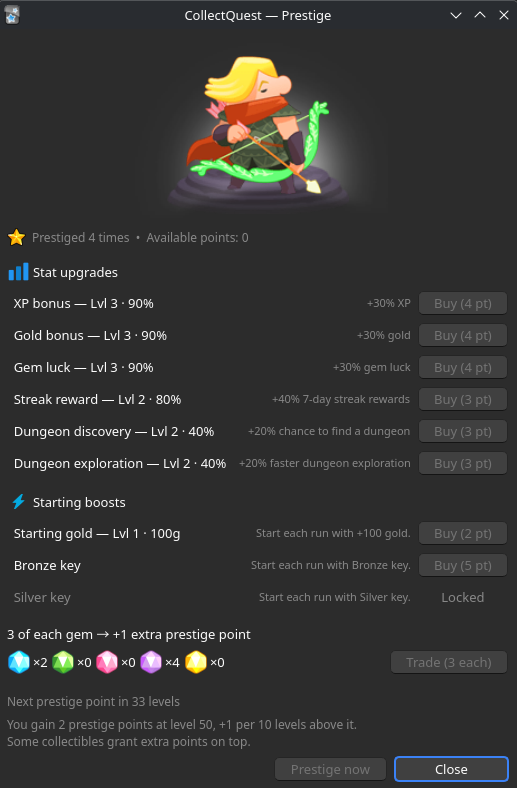
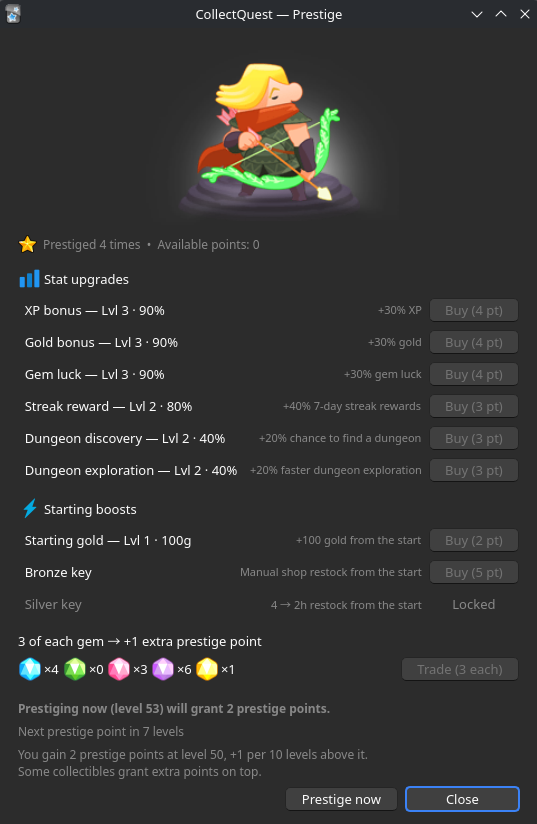
Outer padding consistent across windows, rewording in wiki

diff --git a/src/ui/milestones.py b/src/ui/milestones.py
@@ -5,6 +5,7 @@ from aqt.qt import (
     QDialog,
     QGridLayout,
     QLabel,
+    QRect,
     QScrollArea,
     QVBoxLayout,
     QWidget,
@@ -12,7 +13,13 @@ from aqt.qt import (
 )
 
 from .. import milestones as milestones_mod, storage, xp
-from .assets import _ink_pixmap, add_detail_window_close_row, add_detail_window_header, exec_dialog
+from .assets import (
+    _ink_pixmap,
+    add_detail_window_close_row,
+    add_detail_window_header,
+    exec_dialog,
+    pad_detail_window,
+)
 from .constants import _DETAIL_MUTED
 
 # Markers for the three states an entry can be in. Blank for locked rather than a third glyph: the
@@ -26,7 +33,7 @@ _MARK_ACTIVE_IMAGE = "ui/Hourglass.png"
 # font size.
 _MARK_ACTIVE_HEIGHT = 0.8
 _MARK_ACTIVE_DROP = 0.1
-_MARK_LOCKED = " "  # figure space, so locked rows align with marked ones
+_MARK_LOCKED = " "  # figure space: narrower than either mark, so it never widens their column
 
 # Beyond this the table scrolls rather than growing the window off the screen.
 _MAX_TABLE_HEIGHT = 620
@@ -39,7 +46,6 @@ _MUTED = _DETAIL_MUTED
 # Grid columns: marker, objective, progress, reward. One grid for header and entries, so "Rewards"
 # sits over its column by construction.
 _COL_MARK, _COL_OBJECTIVE, _COL_PROGRESS, _COL_REWARD = range(4)
-_MARK_W = 18
 # Widest figure any row can show, used to size the progress column from the running font rather
 # than from a pixel count that only held at the font this was written against.
 _WIDEST_PROGRESS = "15/15"
@@ -62,7 +68,6 @@ def _add_entry_row(
     muted = not done and not is_active
 
     mark_lbl = QLabel()
-    mark_lbl.setFixedWidth(_MARK_W)
     # Added to the grid before measuring, so it reports the grid's font rather than the app's.
     grid.addWidget(mark_lbl, row, _COL_MARK)
     line_h = mark_lbl.fontMetrics().height()
@@ -120,6 +125,13 @@ def build_milestones_content(layout: QVBoxLayout, col=None) -> None:
     grid.setContentsMargins(0, 0, 0, 0)
     grid.setHorizontalSpacing(8)
     grid.setVerticalSpacing(4)
+    # Sized to the wider of the two marks, measured as their labels will be, so the objectives sit
+    # against them and hold still whichever marks the track's state shows.
+    fm = inner.fontMetrics()
+    hourglass = _ink_pixmap(_MARK_ACTIVE_IMAGE, max(1, round(fm.height() * _MARK_ACTIVE_HEIGHT)))
+    grid.setColumnMinimumWidth(_COL_MARK, max(
+        fm.boundingRect(QRect(), 0, _MARK_DONE).width(), hourglass.width() if hourglass else 0
+    ))
     # Only the reward column stretches, keeping the progress figure beside its objective.
     grid.setColumnStretch(_COL_OBJECTIVE, 0)
     grid.setColumnStretch(_COL_REWARD, 1)
@@ -169,6 +181,7 @@ def show_milestones_dialog(parent: QWidget | None = None, col=None) -> None:
     d.setWindowTitle("Milestones")
     layout = QVBoxLayout(d)
     layout.setSpacing(6)
+    pad_detail_window(layout)
     build_milestones_content(layout, col)
 
     add_detail_window_close_row(layout, d)

diff --git a/src/ui/prestige.py b/src/ui/prestige.py
@@ -30,7 +30,7 @@ from .assets import (
     section_header,
 )
 from .assets import last_house_level
-from .constants import _DIALOG_BUTTON_MIN_WIDTH, _PRESTIGE_DIALOG_WIDTH
+from .constants import _DIALOG_BUTTON_MIN_WIDTH, _DIALOG_CONTENT_MARGINS, _PRESTIGE_DIALOG_WIDTH
 from .hover_tip import set_hover_tip
 
 # Matches the star the CollectQuest panel puts in front of its own prestige line.
@@ -413,9 +413,10 @@ def show_prestige_dialog(
     d = QDialog(parent)
     d.setWindowTitle("CollectQuest — Prestige")
     outer = QVBoxLayout(d)
-    outer.setContentsMargins(0, 0, 0, 0)
     content = QWidget(d)
     layout = QVBoxLayout(content)
+    # Nested like the CollectQuest window, so the two share their padding.
+    layout.setContentsMargins(*_DIALOG_CONTENT_MARGINS)
     outer.addWidget(content)
 
     # Repopulated in place by rebuild(), never rebound, so the closures keep reading the current save.
@@ -499,7 +500,7 @@ def maybe_show_prestige_prompt(
 
     msg = QLabel(
         f"Prestige unlocks at level {prestige_mod.PRESTIGE_MIN_LEVEL}, and you're there.\n"
-        "A prestige resets your run and pays prestige points,\n"
+        "A prestige resets your run and awards prestige points,\n"
         "which buy permanent upgrades: XP, gold, gem luck,\n"
         "starting gold and streak rewards.\n"
         "\n"

diff --git a/src/ui/progress.py b/src/ui/progress.py
@@ -16,7 +16,7 @@ from aqt.qt import (
 from .. import due_baseline, dungeon as dungeon_mod, milestones, prestige as prestige_mod, quests, review_rewards, shop as shop_mod, storage, streak as streak_mod, xp
 from .options import show_options_dialog
 from .assets import _house_pixmap, equalize_button_widths, section_header, house_image_count, house_index_for_level, next_house_goal_level
-from .constants import _COLLECTQUEST_PANEL_WIDTH, _DIALOG_BUTTON_MIN_WIDTH, _MUTED_STAT_STYLE, _POPUP_PROGRESS_DIALOG_WIDTH, _QUEST_BONUS_SEPARATOR_TOP_PAD, _QUEST_BONUS_SEPARATOR_WIDTH
+from .constants import _COLLECTQUEST_PANEL_WIDTH, _DIALOG_BUTTON_MIN_WIDTH, _DIALOG_CONTENT_MARGINS, _MUTED_STAT_STYLE, _POPUP_PROGRESS_DIALOG_WIDTH, _QUEST_BONUS_SEPARATOR_TOP_PAD, _QUEST_BONUS_SEPARATOR_WIDTH
 from .items import add_items_stats_row
 from .prestige import show_prestige_dialog
 from .statusbar import _streak_display_filled, _streak_squares_widget
@@ -660,7 +660,7 @@ def build_progress_content_widget(
     if for_panel:
         layout.setContentsMargins(6, 5, 6, 5)
     else:
-        layout.setContentsMargins(8, 6, 8, 6)
+        layout.setContentsMargins(*_DIALOG_CONTENT_MARGINS)
 
     if for_panel and parent is not None and getattr(parent, "isFloating", None) is not None:
         _add_redock_button(layout, parent)

diff --git a/tests/test_prestige_ui.py b/tests/test_prestige_ui.py
@@ -56,6 +56,7 @@ app = QtWidgets.QApplication.instance() or QtWidgets.QApplication([])
 storage = importlib.import_module("cq.src.storage")
 storage = importlib.import_module("cq.src.storage")
 assets = importlib.import_module("cq.src.ui.assets")
+constants = importlib.import_module("cq.src.ui.constants")
 xp = importlib.import_module("cq.src.xp")
 ui_prestige = importlib.import_module("cq.src.ui.prestige")
 
@@ -260,6 +261,13 @@ check("Starting gold is listed once, under Starting boosts",
       len(ys.get("Starting gold", [])) == 1 and ys["Starting gold"][0] > ys["Starting boosts"][0])
 check("stat upgrades sit above Starting boosts",
       max(ys["XP bonus"] + ys["Dungeon exploration"]) < ys["Starting boosts"][0])
+# The CollectQuest window's padding: the dialog's own margins, then the shared inner padding.
+def margins(lay):
+    m = lay.contentsMargins()
+    return (m.left(), m.top(), m.right(), m.bottom())
+outer_m, inner_m = margins(d.layout()), margins(d.layout().itemAt(0).widget().layout())
+check("padded like the CollectQuest window",
+      outer_m[0] > 0 and inner_m == constants._DIALOG_CONTENT_MARGINS, f"{outer_m} + {inner_m}")
 d.close()
 
 print()

diff --git a/src/ui/assets.py b/src/ui/assets.py
@@ -376,6 +376,16 @@ def add_section_heading(
     layout.addWidget(lbl)
 
 
+def pad_detail_window(layout) -> None:
+    """Pad a detail window's top-level layout on top of the dialog's own margins, as the
+    CollectQuest window pads inside its own."""
+    from .constants import _DIALOG_CONTENT_MARGINS
+
+    m = layout.contentsMargins()
+    pad_l, pad_t, pad_r, pad_b = _DIALOG_CONTENT_MARGINS
+    layout.setContentsMargins(m.left() + pad_l, m.top() + pad_t, m.right() + pad_r, m.bottom() + pad_b)
+
+
 def add_detail_window_close_row(layout, dialog) -> None:
     """The close row a detail window ends with, right-aligned below a gap."""
     from aqt.qt import QPushButton

diff --git a/src/ui/dungeon.py b/src/ui/dungeon.py
@@ -372,7 +372,7 @@ def _auto_pick_dialog(parent: QWidget | None, on_change: Callable[[], None]) -> 
 
     # No color set: this line is the disclosure that makes the setting honest, and a hardcoded gray
     # is near-invisible in dark mode. Smaller, and the theme supplies the color.
-    note = QLabel("Auto-pick follows your order, not the amounts offered. Picking by hand can pay more.")
+    note = QLabel("Auto-pick follows your order, not the amounts offered. Picking by hand can earn more.")
     note.setStyleSheet("font-size: 10px;")
     note.setWordWrap(True)
     layout.addWidget(note)

diff --git a/src/ui/constants.py b/src/ui/constants.py
@@ -44,7 +44,11 @@ _DIALOG_BUTTON_MIN_WIDTH = 110
 
 # Opening width for the prestige window. Wider than its content strictly needs, so the gray
 # effect text on each upgrade row keeps clear of the title beside it.
-_PRESTIGE_DIALOG_WIDTH = 520
+_PRESTIGE_DIALOG_WIDTH = 540
+
+# Padding the CollectQuest window adds inside the dialog's own margins; the prestige and milestones
+# windows match it.
+_DIALOG_CONTENT_MARGINS = (8, 6, 8, 6)
 
 # The size every section's heading icon is drawn at, in the CollectQuest and prestige windows.
 _SECTION_ICON_PX = 24

diff --git a/src/ui/items.py b/src/ui/items.py
@@ -21,6 +21,7 @@ from .assets import (
     add_detail_window_header,
     add_section_heading,
     exec_dialog,
+    pad_detail_window,
 )
 from .constants import _DETAIL_MUTED, _MUTED_STAT_STYLE
 from .hover_tip import set_hover_tip
@@ -291,6 +292,7 @@ def show_items_dialog(parent: QWidget | None = None) -> None:
     d.setWindowTitle("Items")
     layout = QVBoxLayout(d)
     layout.setSpacing(6)
+    pad_detail_window(layout)
     build_items_content(layout)
 
     add_detail_window_close_row(layout, d)

diff --git a/src/milestones.py b/src/milestones.py
@@ -299,7 +299,7 @@ BUFF_DUNGEON_SPEED = 1 + BUFF_DUNGEON_PERCENT / 100
 
 BUFFS: tuple[dict[str, Any], ...] = (
     {"id": BUFF_REVIEWS_XP, "system": SYS_REVIEWS,
-     "label": f"Reviews pay {BUFF_REVIEW_XP_PERCENT}% more XP"},
+     "label": f"Reviews give {BUFF_REVIEW_XP_PERCENT}% more XP"},
     {"id": BUFF_QUESTS_DOUBLE, "system": SYS_QUESTS,
      "label": "Double quest rewards, bonus quest included"},
     {"id": BUFF_SHOP_DISCOUNT, "system": SYS_SHOP,

diff --git a/wiki.md b/wiki.md
@@ -20,14 +20,14 @@ Answering a review with `Again` is worth 20% of `Good` and `Hard` 50%, on every 
 | Steady | 1.4 | 3.5 | 7 | 8.4 |
 | Heavy User | 0.98 | 2.45 | 4.9 | 5.88 |
 
-Fractions are never thrown away. If an answer is worth 3.5 XP you'll be paid 3, 4, 3, 4
-and so on; the leftovers are saved up and paid out as whole points.
+Fractions are never thrown away. If an answer is worth 3.5 XP you'll get 3, 4, 3, 4
+and so on; the leftovers are saved up and added once they make a whole point.
 
-Using Anki's undo feature (`Ctrl+Z`) takes back what it paid — XP, gold, gems, and any quest progress it made. This add-on intentionally ignores Anki's redo feature, so if you want the card to count again, answer it again rather than redoing it.
+Using Anki's undo feature (`Ctrl+Z`) takes back what the answer gave you — XP, gold, gems, and any quest progress it made. This add-on intentionally ignores Anki's redo feature, so if you want the card to count again, answer it again rather than redoing it.
 
 ## Levels
 
-Level 2 takes 100 XP, and each level after that 20 more than the last. Leveling up pays 20 gold and has a 15% chance of a gem. There is no level cap, but after level 50 you might consider the [prestige](#prestige) feature. In the `CollectQuest` window there's a picture of your house that changes as you level up. It stops changing at **level 153**.
+Level 2 takes 100 XP, and each level after that 20 more than the last. Leveling up awards 20 gold and has a 15% chance of a gem. There is no level cap, but after level 50 you might consider the [prestige](#prestige) feature. In the `CollectQuest` window there's a picture of your house that changes as you level up. It stops changing at **level 153**.
 
 ## Daily quests
 
@@ -98,27 +98,27 @@ gem-only item you don't own yet, since that item now takes priority.
 |---|---|
 | Shop | 30 gold for a random color, 45 for the color on offer, 60 for the one you have fewest of |
 | Leveling up | One guaranteed gem every 5th level, plus a 15% chance on any level-up |
-| Daily quest reward | Some quests pay a gem alongside their gold, decided when the quest is rolled |
+| Daily quest reward | Some quests award a gem alongside their gold, decided when the quest is rolled |
 | 7-day streak | 2 gems, 1 more every 30 levels (1 below level 20), plus a bonus roll from 7-day streak reward items |
 
 Every one of those except the shop is improved by **gem luck** from your items, so gems compound:
 more gems means more crafted items, which means more luck. On every 5th level the guaranteed gem
-stacks on top of the level-up roll, so a single level can pay out more than one.
+stacks on top of the level-up roll, so a single level can award more than one.
 
 ## Streak
 
 Your streak is read from Anki's own review history, but it can only be as long as the number of days
 since you launched CollectQuest for the first time.
 
-Every 7 days in a row pays one reward, and you can see which type is coming:
+Every 7 days in a row earns one reward, and you can see which type is coming:
 
-| Type | Payout at level 20 | at level 50 |
+| Type | Reward at level 20 | at level 50 |
 |---|---|---|
 | XP | 744 XP | 1,200 XP |
 | Gems | 2 gems + 18 gold | 3 gems + 45 gold |
 | Gold | 60 gold + 42 XP | 120 gold + 97 XP |
 
-Those are the figures before any items — your XP and gold bonuses apply on top. Payouts grow
+Those are the figures before any items — your XP and gold bonuses apply on top. Rewards grow
 every 10 levels. Breaking a streak resets the count, but a sync that fills in a missed day
 repairs it rather than punishing you.
 
@@ -155,12 +155,12 @@ slots — owning an item is the same as using it, and everything you own counts 
 | **Gold %** | Raises gold from daily quests, level-ups and streak rewards. |
 | **Gold earned** | Added in full to level-up and streak gold, and at half strength to daily quest gold. |
 | **Gem luck %** | Multiplies every gem chance in the game — each quest's, the level-up gem, and the streak gem. |
-| **7&#8209;day&nbsp;streak&nbsp;reward&nbsp;%** | Scales the XP and gold of 7-day streak payouts, and is the chance of a bonus gem on weeks the gem reward is rolled. |
-| **Prestige points** | Grants an extra point each time you [prestige](#prestige), on top of the level payout. |
+| **7&#8209;day&nbsp;streak&nbsp;reward&nbsp;%** | Scales the XP and gold of 7-day streak rewards, and is the chance of a bonus gem on weeks the gem reward is rolled. |
+| **Prestige points** | Grants an extra point each time you [prestige](#prestige), on top of the points your level gives. |
 | **Chance&nbsp;to&nbsp;find&nbsp;a&nbsp;dungeon** | Raises the chance an answered card uncovers a [dungeon](#dungeons) entrance. |
 | **Faster&nbsp;dungeon&nbsp;exploration** | On average, each stage inside a dungeon takes less reviews to move on from. |
 
-Once gem luck % is applied to the base gem chance, the final chance pushed past 100% pays one gem outright and rolls what's left over for another, so 120% is a guaranteed gem plus a 20% shot at a second — no luck is ever wasted.
+Once gem luck % is applied to the base gem chance, the final chance pushed past 100% awards one gem outright and rolls what's left over for another, so 120% is a guaranteed gem plus a 20% shot at a second — no luck is ever wasted.
 
 ## Items
 
@@ -269,7 +269,7 @@ level.
 
 ### Found in dungeons (8)
 
-A [dungeon](#dungeons) treasure is the only place they come from, and a dungeon pays at most one of them. Level doesn't gate them; some are simply rarer than others.
+A [dungeon](#dungeons) treasure is the only place they come from, and a dungeon awards at most one of them. Level doesn't gate them; some are simply rarer than others.
 
 | Item | Chance | Effect |
 |---|---|---|
@@ -304,7 +304,7 @@ Owning a higher tier key doesn't interfere with the effects of the previous tier
 
 **Unlocks at level 10.** Once you've [prestiged](#prestige) it stays unlocked no matter what level you drop back to.
 
-16 goals worked through one at a time, in a fixed order. Each pays a reward, and the next
+16 goals worked through one at a time, in a fixed order. Each gives a reward, and the next
 one only opens when the current one is done. **Counters start from zero the moment a milestone
 opens** — nothing you did before it counts.
 
@@ -359,7 +359,7 @@ Once milestone #14 is done and its 15 magnets are found,
 the same charge that gives you XP bonus is added to your **gold** bonus as well. 
 You can see the current charge under **Streak accumulator** in the panel, below your items.
 While an upgrade is in progress, the magnets you have toward it are counted on the line beneath it, 
-prefixed with what that upgrade pays — **Faster charging**, or **Gold bonus** for the last one.
+prefixed with what that upgrade gives — **Faster charging**, or **Gold bonus** for the last one.
 
 ### Temporary buffs
 
@@ -370,7 +370,7 @@ CollectQuest window.
 
 | Buff | Group | What it does |
 |---|---|---|
-| Reviews pay 20% more XP | Reviews | Reviews only — quest and streak rewards are unaffected. Multiplies the XP after all other bonuses |
+| Reviews give 20% more XP | Reviews | Reviews only — quest and streak rewards are unaffected. Multiplies the XP after all other bonuses |
 | Double quest rewards, bonus quest included | Quests | Doubles their XP, gold and gems |
 | Everything in the shop costs 20% less gold | Shop | Items, gems, magnets and paid restocks |
 | Crafting skips your scarcest gem color | Crafting | The color you have fewest of is free |
@@ -381,8 +381,8 @@ CollectQuest window.
 **Only one buff per group runs at a time**, so the three crafting buffs never stack. Buffs from
 different groups can run together.
 
-A doubler doubles whatever the reward actually pays, so a quest whose gem luck pushed it to 2 gems
-pays 4. The two doublers don't compound, though — with both running, a quest gem is still only
+A doubler doubles whatever the reward actually gives, so a quest whose gem luck pushed it to 2 gems
+awards 4. The two doublers don't compound, though — with both running, a quest gem is still only
 doubled once. The extra gems roll their own colors rather than copying the ones they double, so a
 doubled reward isn't twice as lopsided as a normal one.
 
@@ -439,7 +439,7 @@ Those are the chances per answer, before items, prestige upgrades, buffs and the
 
 ### Branching pathways
 
-A branching offers **2 or 3 pathways** and pays 110 XP for being found. Each pathway except "Unmarked path" shows exactly what reward it promises at the end before you take it.
+A branching offers **2 or 3 pathways** and gives 110 XP for being found. Each pathway except "Unmarked path" shows exactly what reward it promises at the end before you take it.
 
 | Pathway | What it offers | How often it appears |
 |---|---|---|
@@ -476,10 +476,10 @@ The scrambler takes every gem you hold and gives them back in random colors, but
 
 The treasure is reached after **3 to 6 branchings** (determined randomly). Bigger dungeons can be discovered after completing milestones.
 
-Finding it pays 220 XP, and everything your pathways promised has been piling up quietly and is claimed here.
+Finding it gives 220 XP, and everything your pathways promised has been piling up quietly and is claimed here.
 The Dungeon window has to be opened to claim the treasure. Claiming closes the dungeon and starts the search for the next entrance. Nothing expires, so an unclaimed treasure can sit there as long as you like.
 
-Afterwards the Dungeon window keeps showing what that dungeon paid and what you took at each
+Afterwards the Dungeon window keeps showing what that dungeon awarded and what you took at each
 branching, until the next one starts.
 
 ### Reward breakdown
@@ -496,7 +496,7 @@ already do, so the collection you've built is what makes a dungeon worth more.
 | Gold & gems pathway | 15–30g, and a 50–100% gem chance |
 
 Gem pathways are a *chance* rather than a count, which is why one reads "2 gems" and the next "1 gem",
-and why gem luck makes them pay more — a chance past 100% guarantees 1 gem and rolls the rest for
+and why gem luck makes them worth more — a chance past 100% guarantees 1 gem and rolls the rest for
 another, exactly as everywhere else in the game.
 
 ### Review queuing system
@@ -511,7 +511,7 @@ Queued reviews keep the temporary dungeon buff they were answered under: the one
 get it if it has run out by the time you pick. Therefore there's no point in trying to "save up" your reviews until you roll this buff.
 
 **Anki's undo feature never takes back something you've found.** An entrance, a branching, a treasure and the XP
-they paid all survive this. Instead the dungeon sits out one review for every review you undo,
+they gave all survive this. Instead the dungeon sits out one review for every review you undo,
 so undoing an answer to re-roll it costs exactly what it was trying to save. With this design, you can freely
 undo reviews as intended by Anki, without worrying about losing dungeon progress.
 
@@ -559,15 +559,15 @@ since items unlock as high as level 130.
 
 **Your streak is not affected.** It's read from Anki's review history, so both the current run
 and your all-time best reappear as soon as the game next checks, and a reward you've already
-claimed isn't paid a second time.
+claimed isn't awarded a second time.
 
 You gain **2 points at level 50, plus 1 more for every full 10 levels above it**. So level 60
-pays 3, level 100 pays 7. The two tomes each add 1 more to every prestige you do while you hold
+awards 3, level 100 awards 7. The two tomes each add 1 more to every prestige you do while you hold
 them, and the prestige window breaks down where your points are coming from.
 
 **Trading gems for points.** The prestige window has a row that turns 3 of each color into
 1 extra point. Each further trade in the same run costs one more of each: 4, then 5, and so on,
-back to 3 after you prestige. The point isn't paid at once — it's banked as "pending" and added
+back to 3 after you prestige. The point isn't awarded at once — it's banked as "pending" and added
 to your next prestige.
 
 The points buy upgrades in two sections of the prestige window.
